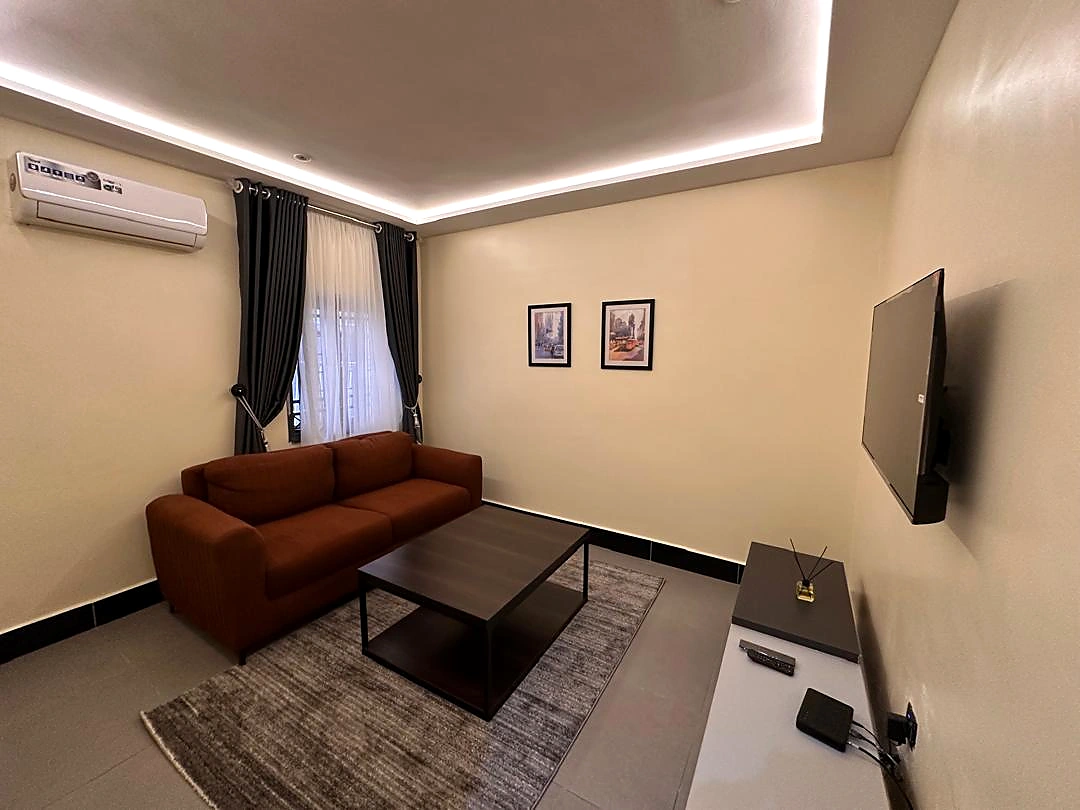
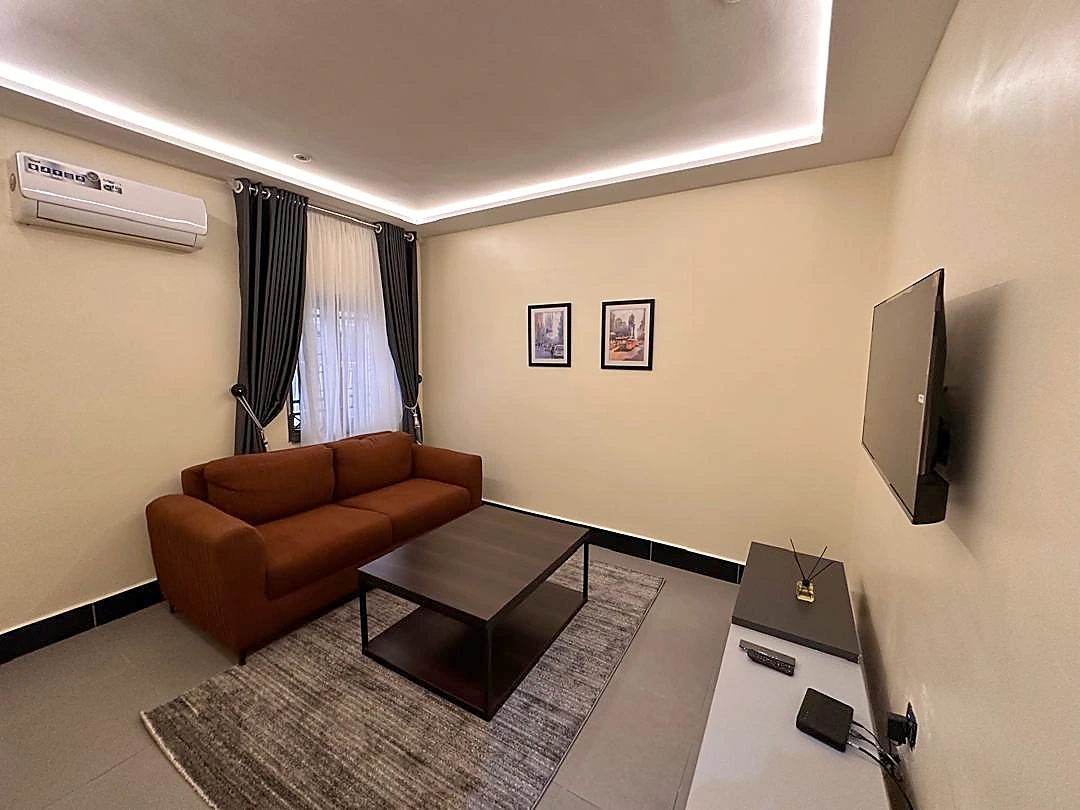
Polish apartment photos, add subtle motion and booking notification drafts

diff --git a/static/css/site.css b/static/css/site.css
@@ -47,3 +47,29 @@ footer.site-footer .footer-bottom small{display:inline;margin:0;font-size:10px;c
 .hero-art{min-height:0;height:auto;aspect-ratio:auto;align-self:center;background:var(--paper)}
 .hero-art>img{position:static;inset:auto;display:block;width:100%;height:auto;object-fit:contain;object-position:center;aspect-ratio:auto}
 .arrival-photo img{height:auto;max-height:none;object-fit:contain;aspect-ratio:auto}
+
+/* Subtle motion, with no shifts to the page layout. */
+@keyframes trake-arrive{from{opacity:.25;transform:translateY(12px)}to{opacity:1;transform:translateY(0)}}
+.hero-copy>h1,.page-heading>h1,.dash-heading h1{animation:trake-arrive .55s ease-out both}
+.hero-copy>p{animation:trake-arrive .55s .08s ease-out both}
+.hero-art{animation:trake-arrive .65s .05s ease-out both}
+.motion-reveal{transition:opacity .5s ease var(--motion-delay,0ms),transform .5s ease var(--motion-delay,0ms)}
+.motion-pending{opacity:0;transform:translateY(15px)}
+.button{transition:background .2s ease,box-shadow .2s ease,transform .2s ease}
+.button:active{transform:translateY(1px)}
+.button>span,.directions-link>span,.footer-links a>span{display:inline-block;transition:transform .2s ease}
+input,select,textarea{transition:border-color .18s ease,box-shadow .18s ease}
+input:focus,select:focus,textarea:focus{box-shadow:0 0 0 3px #102e4c0d}
+@media(hover:hover){
+ .button:hover{transform:translateY(-2px);box-shadow:0 5px 12px #102e4c18}
+ .button:hover>span,.directions-link:hover>span,.footer-links a:hover>span{transform:translate(2px,-2px)}
+ .gallery-photo img{transition:transform .35s ease}
+ .gallery-photo:hover img{transform:scale(1.025)}
+}
+@media(prefers-reduced-motion:reduce){
+ .hero-copy>h1,.hero-copy>p,.hero-art,.page-heading>h1,.dash-heading h1{animation:none}
+ .motion-reveal,.button,.button>span,.directions-link>span,.footer-links a>span,input,select,textarea,.gallery-photo img,.card-image img{transition:none!important}
+ .motion-pending{opacity:1;transform:none}
+ .button:hover,.button:active,.gallery-photo:hover img,.card-image:hover img{transform:none}
+}
+@media print{.motion-pending{opacity:1;transform:none}}

diff --git a/templates/card.html b/templates/card.html
@@ -1,1 +1,1 @@
-{% load static humanize %}<article class="apartment-card"><a class="card-image" href="{% url 'detail' apartment.slug %}"><img src="{% static apartment.image %}" alt="{{ apartment.name }} living area at Trake Apartments by Orleans" loading="lazy" width="1080" height="810"><span>{{ apartment.bedrooms }} BEDROOM{% if apartment.bedrooms > 1 %}S{% endif %}</span><b>↗</b></a><div class="card-content"><div class="card-top"><h3><a href="{% url 'detail' apartment.slug %}">{{ apartment.name }}</a></h3><span>Up to {{ apartment.max_guests }} guests</span></div><p>{{ apartment.description|truncatewords:16 }}</p><div class="card-bottom"><span><strong>₦{{ apartment.nightly_rate|intcomma }}</strong> / night</span><a href="{% url 'book' %}?apartment={{ apartment.pk }}">Book this space ↗</a></div></div></article>
+{% load static humanize %}<article class="apartment-card"><a class="card-image" href="{% url 'detail' apartment.slug %}"><img src="{% static apartment.image %}" alt="{{ apartment.name }} at Trake Apartments by Orleans" loading="lazy" width="1080" height="810"><span>{{ apartment.bedrooms }} BEDROOM{% if apartment.bedrooms > 1 %}S{% endif %}</span><b>↗</b></a><div class="card-content"><div class="card-top"><h3><a href="{% url 'detail' apartment.slug %}">{{ apartment.name }}</a></h3><span>Up to {{ apartment.max_guests }} guests</span></div><p>{{ apartment.description|truncatewords:16 }}</p><div class="card-bottom"><span><strong>₦{{ apartment.nightly_rate|intcomma }}</strong> / night</span><a href="{% url 'book' %}?apartment={{ apartment.pk }}">Book this space ↗</a></div></div></article>

diff --git a/static/js/motion.js b/static/js/motion.js
@@ -1,0 +1,22 @@
+/* Quiet, progressive motion. All content remains usable without JavaScript. */
+(() => {
+  if (window.matchMedia('(prefers-reduced-motion: reduce)').matches || !('IntersectionObserver' in window)) return;
+  const targets = document.querySelectorAll('.section-heading, .apartment-card, .comfort-grid article, .property-arrival, .cta, .metrics article, .dashboard-main > .panel, .dash-columns > .panel');
+  const observer = new IntersectionObserver(entries => {
+    entries.forEach(entry => {
+      if (!entry.isIntersecting) return;
+      entry.target.classList.remove('motion-pending');
+      observer.unobserve(entry.target);
+    });
+  }, {threshold: 0.06, rootMargin: '0px 0px 30px 0px'});
+  targets.forEach((element, index) => {
+    // Do not hide anything already visible when the script starts.
+    if (element.getBoundingClientRect().top < window.innerHeight - 20) return;
+    element.classList.add('motion-reveal', 'motion-pending');
+    element.style.setProperty('--motion-delay', `${index % 2 * 65}ms`);
+    observer.observe(element);
+  });
+  // Anchor jumps, browser find and keyboard navigation must expose content at once.
+  document.addEventListener('focusin', event => event.target.closest('.motion-pending')?.classList.remove('motion-pending'));
+  window.addEventListener('beforeprint', () => targets.forEach(element => element.classList.remove('motion-pending')));
+})();

diff --git a/templates/detail.html b/templates/detail.html
@@ -4,7 +4,7 @@
 <section class="section detail">
   <a class="back-link" href="{% url 'explore' %}">← All apartments</a>
   <div class="detail-grid">
-    <div class="detail-photo"><img id="apartment-main-photo" src="{% static apartment.image %}" alt="{{ apartment.name }} living area" width="1080" height="810" fetchpriority="high"><small id="photo-caption">{{ apartment.name }} · Living area</small></div>
+    <div class="detail-photo"><img id="apartment-main-photo" src="{% static apartment.image %}" alt="{{ apartment.gallery.0.alt|default:apartment.name }}" width="1080" height="810" fetchpriority="high"><small id="photo-caption">{{ apartment.gallery.0.alt|default:apartment.name }}</small></div>
     <div>
       <div class="eyebrow">YOUR OWN LITTLE CORNER</div>
       <h1>{{ apartment.name }}</h1><p>{{ apartment.description }}</p>

diff --git a/templates/base.html b/templates/base.html
@@ -40,5 +40,6 @@
   </div>
   <div class="footer-bottom"><small>© {% now 'Y' %} Trake Apartments by Orleans. All rights reserved.</small><span>One & two-bedroom apartments</span></div>
 </footer>
+<script src="{% static 'js/motion.js' %}" defer></script>
 </body>
 </html>

diff --git a/stays/notifications.py b/stays/notifications.py
@@ -1,0 +1,37 @@
+"""Booking messages shared by demo and verified Paystack flows.
+
+Console email is the safe default. Configure a delivery provider separately.
+"""
+import logging
+from django.conf import settings
+from django.core.mail import send_mail
+from django.db import transaction
+from django.template.loader import render_to_string
+
+logger = logging.getLogger(__name__)
+
+GUEST_MESSAGES = {
+    'PENDING': ('Complete your booking', 'We have received your booking request. Your apartment is temporarily held while you complete payment. Your stay is confirmed only after payment is verified.'),
+    'REVIEW': ('Your dates are being reviewed', 'We have received your request. These dates need an availability review, so your stay is not yet confirmed. No payment has been taken. Our team will contact you about availability or alternative dates.'),
+    'CONFIRMED': ('Your booking is confirmed', 'Your payment has been verified and your apartment is reserved. We look forward to welcoming you to Trake Apartments by Orleans.'),
+    'PAID_REVIEW': ('Payment received: availability review needed', 'Your payment has been received, but we still need to resolve availability. Your stay is not yet confirmed. Our team will contact you about the next steps.'),
+    'DECLINED': ('Update on your booking request', 'We are unable to accept your requested dates. No payment has been taken for this request. Please contact our team to discuss another stay.'),
+}
+
+def queue_emails(booking, message, *, demo=False):
+    """Send only after the booking transaction commits; alerts remain if mail fails."""
+    subject, explanation = GUEST_MESSAGES[booking.status]
+    context = {'booking': booking, 'explanation': explanation, 'message': message, 'demo': demo}
+    guest_body = render_to_string('emails/guest.txt', context)
+    owner_body = render_to_string('emails/owner.txt', context)
+    prefix = '[DEMO] ' if demo else ''
+    def deliver():
+        deliveries = [(prefix + subject + ' · ' + booking.reference, guest_body, [booking.email])]
+        if settings.BUSINESS_ALERT_EMAILS:
+            deliveries.append((prefix + 'Trake: ' + message + ' · ' + booking.reference, owner_body, settings.BUSINESS_ALERT_EMAILS))
+        for title, body, recipients in deliveries:
+            try:
+                send_mail(title, body, settings.DEFAULT_FROM_EMAIL, recipients)
+            except Exception:
+                logger.exception('Booking email failed; dashboard notification retained')
+    transaction.on_commit(deliver)

diff --git a/stays/tests.py b/stays/tests.py
@@ -80,3 +80,39 @@ class BookingTests(TestCase):
         with self.assertRaises(BookingError):create_booking(self.data)
         self.data['check_out']+=timedelta(days=1);self.data['guests']=3
         with self.assertRaises(BookingError):create_booking(self.data)
+
+    @override_settings(EMAIL_BACKEND='django.core.mail.backends.locmem.EmailBackend',BUSINESS_ALERT_EMAILS=['owner@example.com'],DEMO_PAYMENTS=False)
+    def test_notifications_follow_verified_state_and_do_not_repeat(self):
+        from django.core import mail
+        with self.captureOnCommitCallbacks(execute=True):
+            b=create_booking(self.data)
+        self.assertEqual(len(mail.outbox),2)
+        self.assertIn('confirmed only after payment',mail.outbox[0].body)
+        p=prepare_payment(b)
+        with self.captureOnCommitCallbacks(execute=True):
+            apply_payment(p.reference,self.verified_data(p))
+        self.assertEqual(len(mail.outbox),4)
+        self.assertIn('Your booking is confirmed',mail.outbox[2].subject)
+        with self.captureOnCommitCallbacks(execute=True):
+            apply_payment(p.reference,self.verified_data(p))
+        self.assertEqual(len(mail.outbox),4)
+
+    @override_settings(EMAIL_BACKEND='django.core.mail.backends.locmem.EmailBackend',BUSINESS_ALERT_EMAILS=['owner@example.com'],DEMO_PAYMENTS=True)
+    def test_conflict_emails_do_not_claim_confirmation_or_payment(self):
+        from django.core import mail
+        create_booking(self.data)
+        with self.captureOnCommitCallbacks(execute=True):
+            create_booking(self.data)
+        self.assertEqual(len(mail.outbox),2)
+        self.assertIn('No payment has been taken',mail.outbox[0].body)
+        self.assertIn('[DEMO]',mail.outbox[0].subject)
+        self.assertIn('Action needed',mail.outbox[1].body)
+
+    @override_settings(BUSINESS_ALERT_EMAILS=['owner@example.com'])
+    def test_mail_failure_preserves_booking_and_dashboard_alert(self):
+        with patch('stays.notifications.send_mail',side_effect=RuntimeError('Test delivery failure')):
+            with self.assertLogs('stays.notifications',level='ERROR'):
+                with self.captureOnCommitCallbacks(execute=True):
+                    b=create_booking(self.data)
+        self.assertTrue(Booking.objects.filter(pk=b.pk).exists())
+        self.assertTrue(Alert.objects.filter(booking=b).exists())

diff --git a/stays/services.py b/stays/services.py
@@ -13,15 +13,11 @@ from .models import ApartmentType, Unit, Booking, Payment, Alert, Decision
 logger=logging.getLogger(__name__)
 class BookingError(ValueError): pass
 
-def alert(booking,message):
+def alert(booking,message,*,demo=None):
+    from .notifications import queue_emails
+    if demo is None: demo=settings.DEMO_PAYMENTS
     Alert.objects.create(booking=booking,message=message)
-    def email_alert():
-        if settings.BUSINESS_ALERT_EMAILS:
-            try:
-                send_mail('Trake: '+message, f'{booking.reference}\n{booking.guest_name}\n{booking.check_in} to {booking.check_out}\n{message}',settings.DEFAULT_FROM_EMAIL,settings.BUSINESS_ALERT_EMAILS)
-            except Exception:
-                logger.exception('Business email failed; dashboard alert retained')
-    transaction.on_commit(email_alert)
+    queue_emails(booking,message,demo=demo)
 
 def available_unit(apartment_type,start,end,exclude=None):
     occupied=Booking.objects.filter(check_in__lt=end,check_out__gt=start).filter(Q(status='CONFIRMED')|Q(status='PENDING',hold_until__gt=timezone.now()))
@@ -112,5 +108,5 @@ def apply_payment(reference,data,*,demo=False):
         b.unit=None
         b.status='PAID_REVIEW'
     b.save()
-    alert(b,('DEMO · ' if demo else '')+'Payment verified: '+b.get_status_display())
+    alert(b,('DEMO · ' if demo else '')+'Payment verified: '+b.get_status_display(),demo=demo)
     return b

diff --git a/config/settings.py b/config/settings.py
@@ -48,3 +48,5 @@ EMAIL_HOST_PASSWORD=os.getenv('EMAIL_HOST_PASSWORD','')
 EMAIL_USE_TLS=True
 DEFAULT_FROM_EMAIL=os.getenv('DEFAULT_FROM_EMAIL','Trake Apartments by Orleans <bookings@example.com>')
 BUSINESS_ALERT_EMAILS=[x.strip() for x in os.getenv('BUSINESS_ALERT_EMAILS','').split(',') if x.strip()]
+# Optional local message previews with Django's file-based email backend.
+EMAIL_FILE_PATH=os.getenv('EMAIL_FILE_PATH',str(BASE_DIR/'email-previews'))

diff --git a/README.md b/README.md
@@ -72,3 +72,9 @@ The main home image is the two-bedroom lounge; the outdoor compound photo has it
 Photo edit brief: modest exposure/shadow and colour correction, restrained clarity/sharpness, preserve the real room layout, furnishings, fixtures and materials. Built-in image editing was used; no virtual staging was requested. WebP versions under `static/images/apartments/` and `static/images/property/` are optimized site assets.
 
 The outdoor compound photo is the homepage hero. Earlier comparison query parameters no longer change the image.
+
+### Booking notification drafts
+
+Guest and business email templates live in `templates/emails/`. They cover awaiting payment, availability review, confirmed payment, paid availability review and declined requests. Emails run after the booking transaction commits; failed email delivery leaves the dashboard alert intact. Repeated verified-payment callbacks do not resend confirmation messages. Demo messages explicitly say that no real payment was charged.
+
+Dashboard alerts are independent of Paystack. Paystack verification triggers the payment-confirmation event. The default console backend previews messages without sending email. Configure SMTP and `BUSINESS_ALERT_EMAILS` for actual delivery. A delivery retry queue remains future work.
